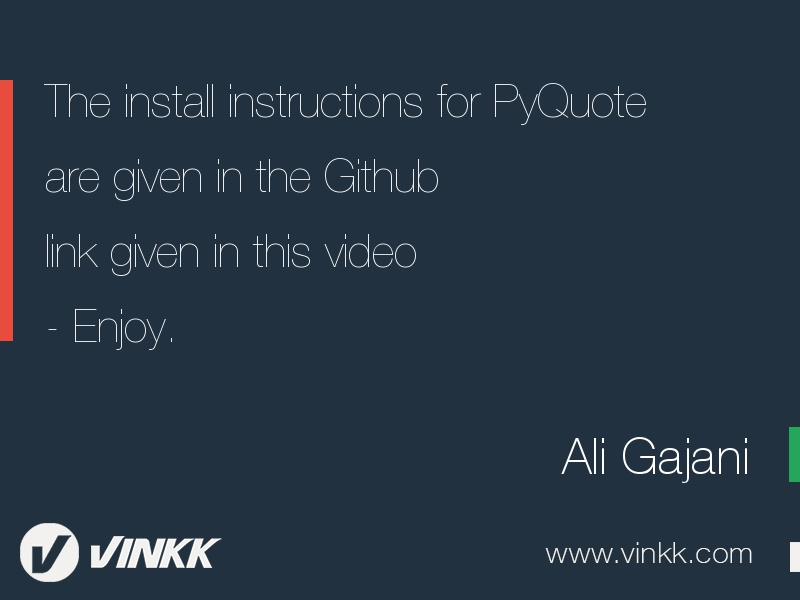
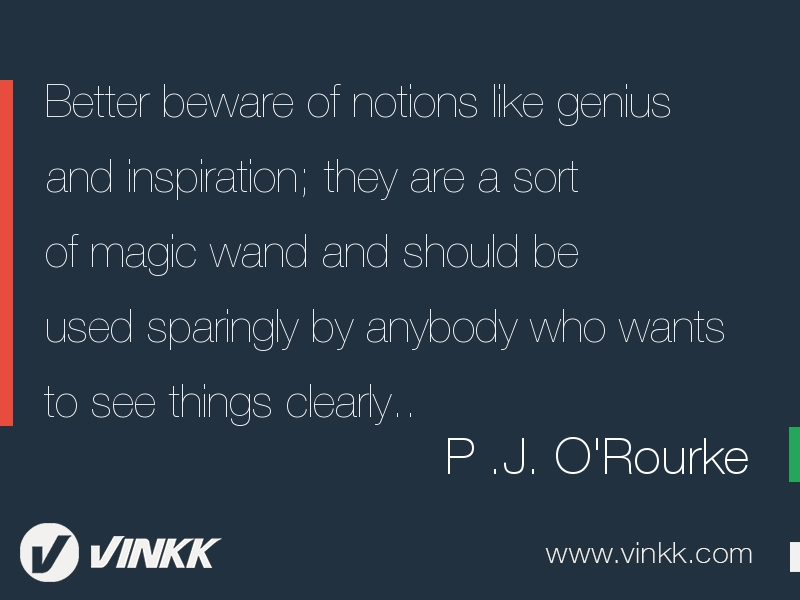
Second Commit

diff --git a/pyquote.py b/pyquote.py
@@ -1,10 +1,12 @@
 __author__ = 'aligajani'
 
+#   MIT License: www.aligajani.com
+#   PyQuote | pyquote.py
+#   Beautify your quotes
+
 from PIL import Image
 from PIL import ImageFont
 from PIL import ImageDraw
-
-# PyQuote: Beautify your quotes
 
 class PyQuote():
 
@@ -53,8 +55,8 @@ class PyQuote():
 
 py = PyQuote()
 
-quote = "The install instructions for PyQuote are given in the Github link given in this video - Enjoy."
-author = "Ali Gajani"
+quote = "Better beware of notions like genius and inspiration; they are a sort of magic wand and should be used sparingly by anybody who wants to see things clearly.."
+author = "P .J. O'Rourke"
 
-chunk = py.chunk(quote, 5)
+chunk = py.chunk(quote, 6)
 py.draw(chunk, author, "vinkk-template.jpg", ["h-ul.ttf", "h-th.ttf"], [45, 50])

diff --git a/README.md b/README.md
@@ -1,0 +1,57 @@
+##PyQuote
+#####Beautify your quotes
+
+
+PyQuote is a simple script that allows you to overlay a quote and it's author on a well design template. PyQuote is kind of clever too. The red bar grows with the number of lines in your text. 
+
+![image](http://i.imgur.com/aTKFVQj.png)
+
+####Installation
+
+It works on Python 2+, and you need Pillow, the image manipulation library.
+
+Install Pillow using `pip install Pillow`.
+
+
+####Customization
+
+Boot up PyQuote `py = PyQuote()` and let the magic begin.
+
+This is where your quote and text data goes in.
+
+
+`quote = "The best way to predict the future is to invent it."`
+
+`author = "Alan Kay"`
+
+You can customize the number of words per line. We have set it to `5` here.
+
+`chunk = py.chunk(quote, 5)`
+
+Then, to render or overlay the text on top of the template, do the following.
+
+`py.draw(chunk, author, "vinkk-template.jpg", ["h-ul.ttf", "h-th.ttf"], [45, 50])`
+
+The `draw()` method takes in 5 arguments:
+
+* chunk - This is the raw quote text broken into line chunks
+* author - This is the author text, such as `Alan Kay`
+* template -  This is the file path to the template background
+* font - This is a list in order [font for quote, font for author]
+* size - This is a list in order [size for quote, size for quote]
+
+That's all. Check out the [making](https://www.youtube.com/watch?v=WpNkFRj3cJk&feature=youtu.be) of PyQuote on Youtube. Enjoy
+
+####License
+
+The MIT License (MIT)
+
+Copyright (c) Ali Gajani aligajani.com
+
+Permission is hereby granted, free of charge, to any person obtaining a copy of this software and associated documentation files (the "Software"), to deal in the Software without restriction, including without limitation the rights to use, copy, modify, merge, publish, distribute, sublicense, and/or sell copies of the Software, and to permit persons to whom the Software is furnished to do so, subject to the following conditions:
+
+The above copyright notice and this permission notice shall be included in all copies or substantial portions of the Software.
+
+THE SOFTWARE IS PROVIDED "AS IS", WITHOUT WARRANTY OF ANY KIND, EXPRESS OR IMPLIED, INCLUDING BUT NOT LIMITED TO THE WARRANTIES OF MERCHANTABILITY, FITNESS FOR A PARTICULAR PURPOSE AND NONINFRINGEMENT. IN NO EVENT SHALL THE AUTHORS OR COPYRIGHT HOLDERS BE LIABLE FOR ANY CLAIM, DAMAGES OR OTHER LIABILITY, WHETHER IN AN ACTION OF CONTRACT, TORT OR OTHERWISE, ARISING FROM, OUT OF OR IN CONNECTION WITH THE SOFTWARE OR THE USE OR OTHER DEALINGS IN THE SOFTWARE.
+
+
